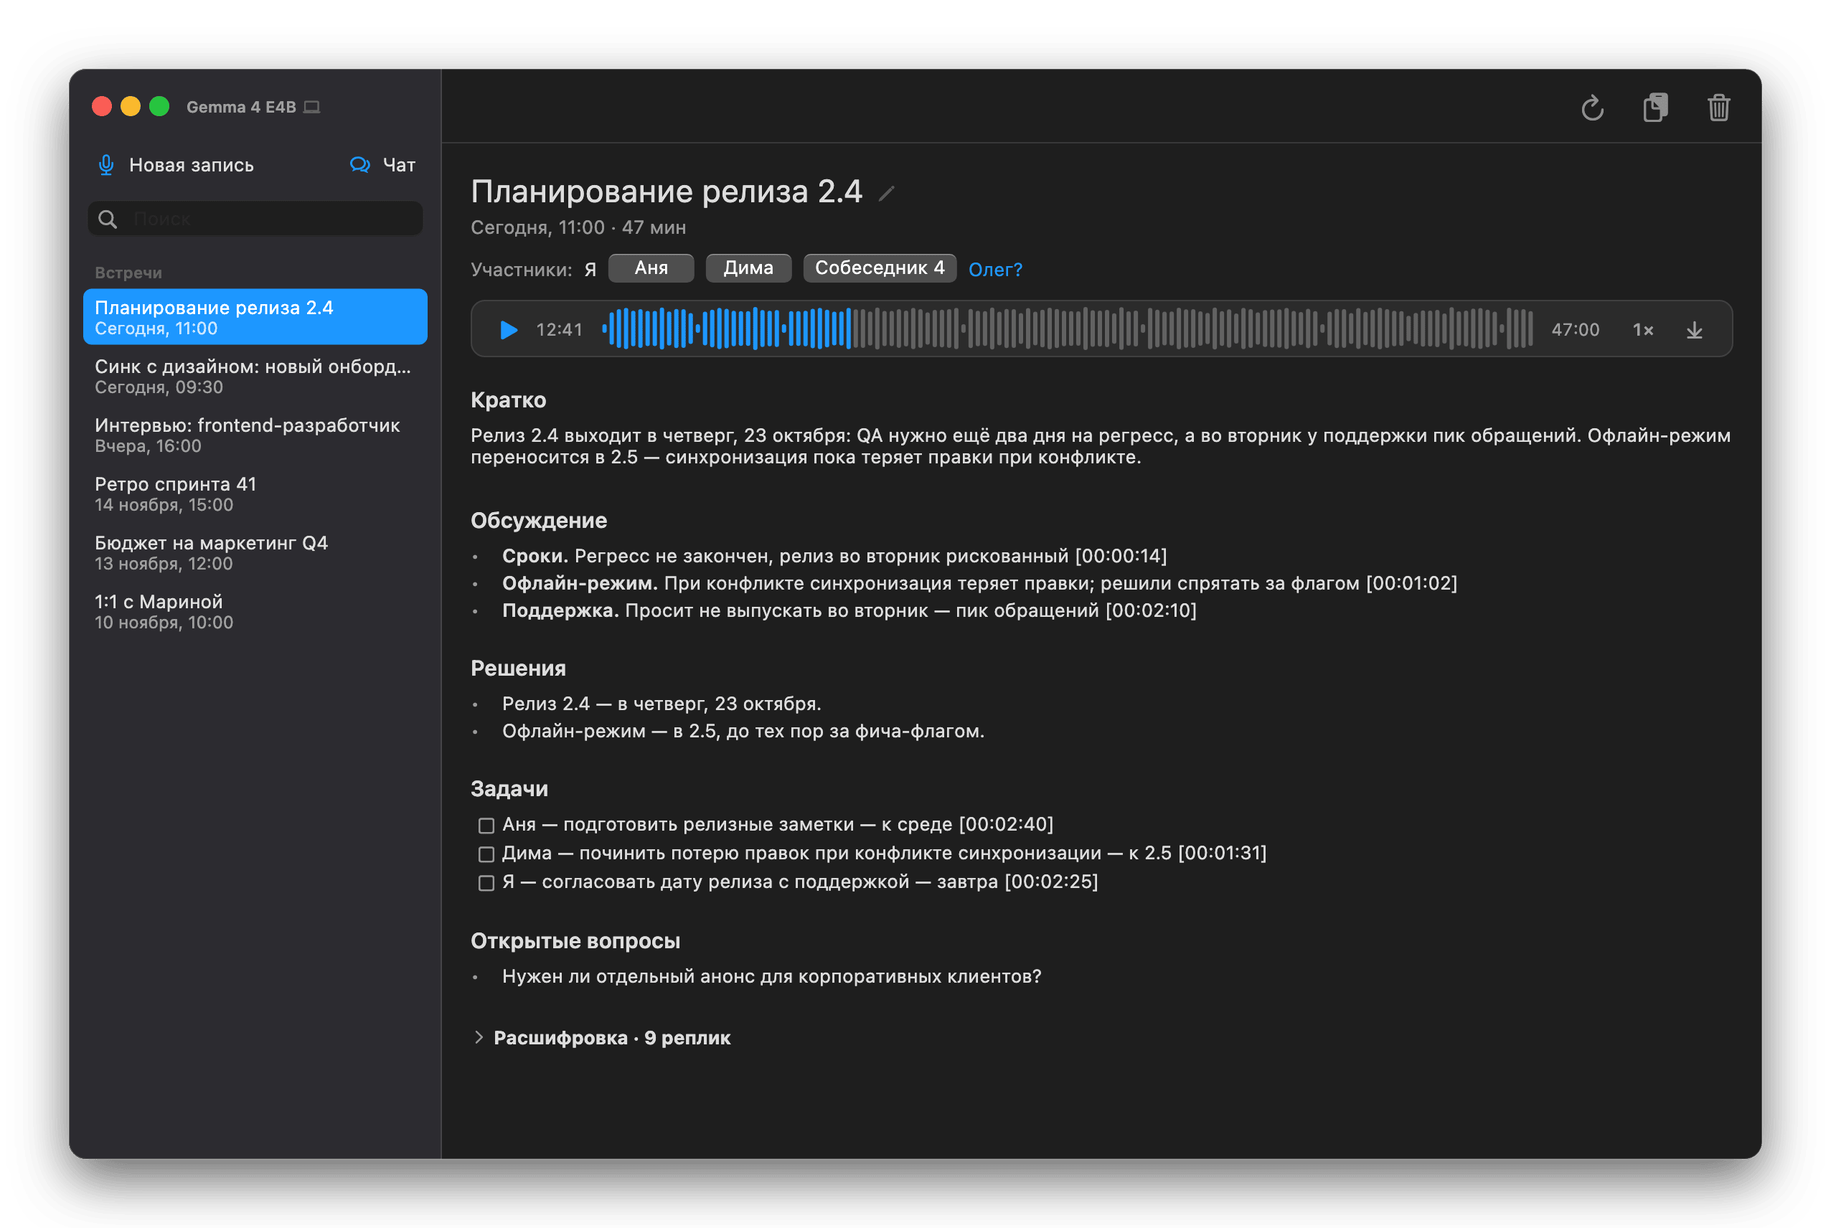
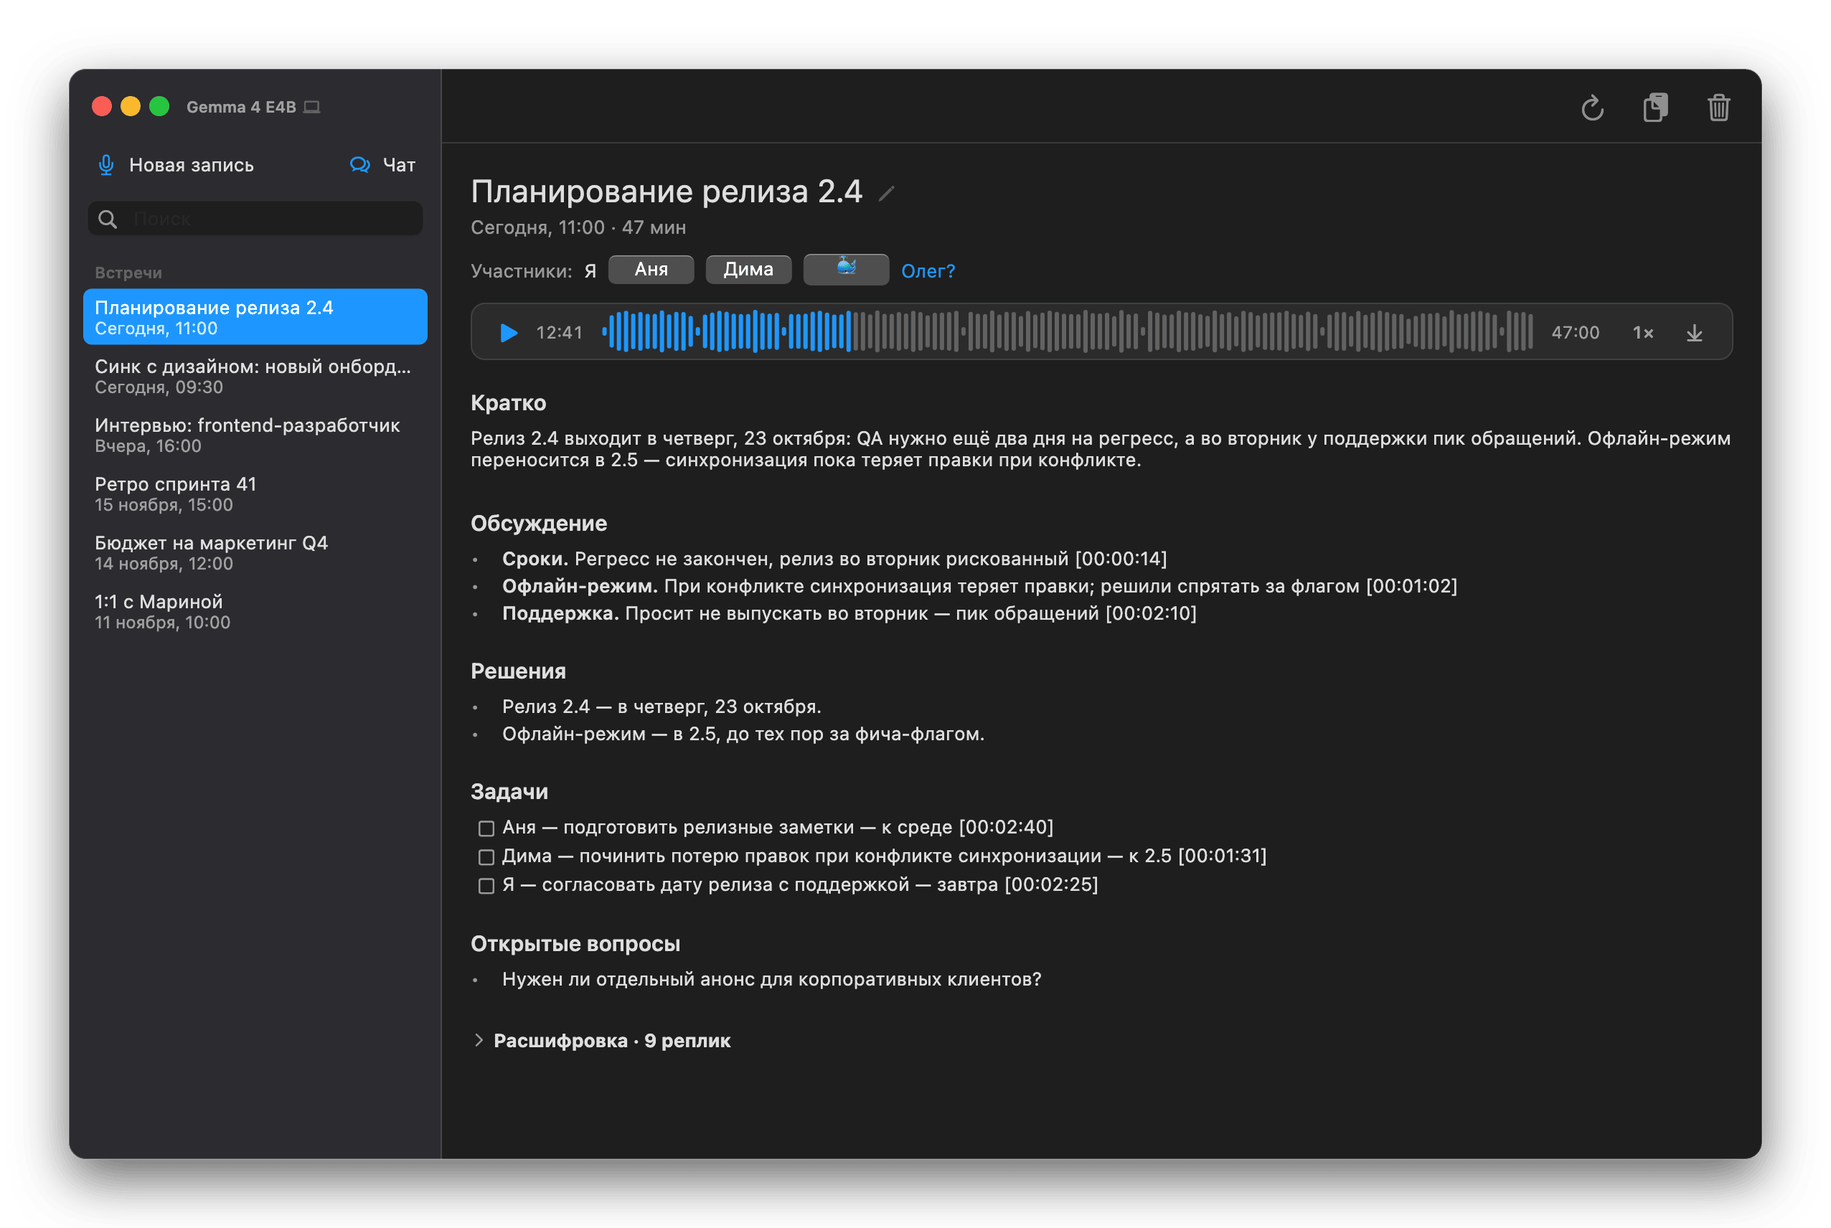
Собеседники без имени — эмодзи вместо «Собеседник N»
Каждый голос в интерфейсе — свой зверь (🦊, 🐻, 🦉…), потом существа и
профессии; 178 эмодзи, дальше по кругу с номером. Только для показа:
расшифровка, участники, заметки, чат, копирование и экспорт. В файлах
встреч метки прежние — по ним пишет Gemma и работает переименование.
Шрифт эмодзи про запас в теме — чтобы эмодзи были и на скриншотах README.

diff --git a/lib/speaker_emoji.dart b/lib/speaker_emoji.dart
@@ -1,0 +1,44 @@
+/// Собеседники, различённые по голосу, в интерфейсе — эмодзи вместо «Собеседник N»:
+/// 🦊 и 🦉 различаются в расшифровке с одного взгляда, «Собеседник 3» и «Собеседник 5» — нет.
+/// В файлах встречи (`transcript.md`, `summary.md`) метки остаются текстом: по ним пишет
+/// Gemma, их склоняет и заменяет переименование, по ним ищет чат. Собеседник с именем
+/// показывается именем, без эмодзи.
+library;
+
+/// Сначала звери, непохожие друг на друга (встречи редко больше чем на десяток голосов),
+/// потом остальные звери, существа, люди по профессиям (без пола и цвета кожи). Феникс —
+/// последним: он появился в macOS 14.4, а на 14.2–14.3 рисуется птицей и огнём отдельно.
+const speakerEmoji = [
+  '🦊', '🐻', '🦉', '🐳', '🐸', '🦁', '🐙', '🦔', '🐧', '🦒', '🐢', '🦋', '🐝', '🦩', '🐼', '🐨', '🐯', '🦜', '🐵',
+  '🐒', '🙈', '🙉', '🙊', '🦍', '🦧', '🐶', '🐕', '🦮', '🐕🦺', '🐩', '🐺', '🦝', '🐱', '🐈', '🐈⬛', '🐅', '🐆',
+  '🐴', '🫎', '🫏', '🐎', '🦄', '🦓', '🦌', '🦬', '🐮', '🐂', '🐃', '🐄', '🐷', '🐖', '🐗', '🐏', '🐑', '🐐', '🐪',
+  '🐫', '🦙', '🐘', '🦣', '🦏', '🦛', '🐭', '🐁', '🐀', '🐹', '🐰', '🐇', '🐿', '🦫', '🦇', '🐻❄', '🦥', '🦦',
+  '🦨', '🦘', '🦡', '😺', '😸', '😹', '😻', '😼', '😽', '🙀', '😿', '😾', '🦃', '🐔', '🐓', '🐣', '🐤', '🐥', '🐦',
+  '🕊', '🦅', '🦆', '🦢', '🦤', '🦚', '🐦⬛', '🪿', '🐊', '🦎', '🐍', '🐲', '🐉', '🦕', '🦖', '🐋', '🐬', '🦭', '🐟',
+  '🐠', '🐡', '🦈', '🪼', '🦀', '🦞', '🦐', '🦑', '🐌', '🐛', '🐜', '🪲', '🐞', '🦗', '🪳', '🕷', '🦂', '🦟', '🪰',
+  '🪱', '🧙', '🧚', '🧛', '🧜', '🧝', '🧞', '🧟', '🧌', '👼', '🎅', '🤶', '🧑🎄', '🦸', '🦹', '🥷', '🤖', '👽', '👾',
+  '👻', '💀', '👹', '👺', '🤡', '🦠', '🧑⚕', '🧑🎓', '🧑🏫', '🧑⚖', '🧑🌾', '🧑🍳', '🧑🔧', '🧑🏭', '🧑💼',
+  '🧑🔬', '🧑💻', '🧑🎤', '🧑🎨', '🧑✈', '🧑🚀', '🧑🚒', '👮', '🕵', '💂', '👷', '🫅', '🐦🔥',
+];
+
+/// Эмодзи голоса по номеру с нуля; если эмодзи кончились — по кругу с номером круга.
+String speakerEmojiFor(int index) {
+  final emoji = speakerEmoji[index % speakerEmoji.length];
+  final round = index ~/ speakerEmoji.length;
+  return round == 0 ? emoji : '$emoji${round + 1}';
+}
+
+final _label = RegExp(r'^Собеседник (\d+)$');
+
+/// Подпись собеседника для показа: «Собеседник 2» → 🐻, остальное (имя, «Я», «Собеседники») — как есть.
+String displaySpeaker(String label) => switch (_label.firstMatch(label.trim())) {
+      final m? => speakerEmojiFor(int.parse(m[1]!) - 1),
+      _ => label,
+    };
+
+/// Метки «Собеседник N» в тексте (и склонённые Gemma: «Собеседнику 2», «с Собеседником 3»)
+/// → эмодзи. «Собеседники» без номера не трогает.
+String withSpeakerEmoji(String text) => text.replaceAllMapped(
+      RegExp(r'(?<![\p{L}\p{N}])Собеседник(?:а|у|ом|е)?\s+(\d+)(?!\d)', unicode: true),
+      (m) => speakerEmojiFor(int.parse(m[1]!) - 1),
+    );

diff --git a/lib/meeting_view.dart b/lib/meeting_view.dart
@@ -5,6 +5,7 @@ import 'package:macos_ui/macos_ui.dart';
 
 import 'audio_player.dart';
 import 'meetings.dart';
+import 'speaker_emoji.dart';
 import 'speaker_hints.dart';
 import 'ui.dart';
 
@@ -376,7 +377,7 @@ class _MeetingViewState extends State<MeetingView> {
   }
 }
 
-/// «Участники: Я, [Собеседник 1] [Анна]» — щелчок по собеседнику даёт ему имя.
+/// «Участники: Я, [🦊] [Анна]» — щелчок по собеседнику даёт ему имя.
 class _Participants extends StatelessWidget {
   const _Participants({
     required this.speakers,
@@ -412,7 +413,7 @@ class _Participants extends StatelessWidget {
               controlSize: ControlSize.regular,
               secondary: true,
               onPressed: () => onPressed(speaker),
-              child: Text(speaker),
+              child: Text(displaySpeaker(speaker)),
             ),
           ),
           if (hints[speaker] case final hint?)
@@ -444,7 +445,7 @@ class _HintButtonState extends State<_HintButton> {
     final color = MacosTheme.of(context).primaryColor;
     return MacosTooltip(
       message: 'Похоже, это ${hint.name}: после обращения по имени отвечал этот голос '
-          '(${hint.votes} $times). Например:\n${hint.evidence}\n\nЩёлкните, чтобы назвать.',
+          '(${hint.votes} $times). Например:\n${withSpeakerEmoji(hint.evidence)}\n\nЩёлкните, чтобы назвать.',
       child: MouseRegion(
         cursor: SystemMouseCursors.click,
         onEnter: (_) => setState(() => _hovered = true),
@@ -514,7 +515,7 @@ class _SpeakerNameDialogState extends State<_SpeakerNameDialog> {
       },
       child: MacosAlertDialog(
         appIcon: const MacosIcon(CupertinoIcons.person_crop_circle, size: 48),
-        title: Text('Как зовут «${widget.speaker}»?', textAlign: TextAlign.center),
+        title: Text('Как зовут «${displaySpeaker(widget.speaker)}»?', textAlign: TextAlign.center),
         message: Column(
           mainAxisSize: MainAxisSize.min,
           children: [
@@ -642,6 +643,8 @@ class TranscriptLines extends StatelessWidget {
                     ),
                     Expanded(
                       child: Text.rich(
+                        // Высота строки — по тексту: эмодзи собеседника выше букв и раздвигал бы строки.
+                        strutStyle: StrutStyle.fromTextStyle(typography.body, forceStrutHeight: true),
                         TextSpan(
                           style: index < lines.length
                               ? typography.body
@@ -651,7 +654,7 @@ class TranscriptLines extends StatelessWidget {
                                 ),
                           children: [
                             TextSpan(
-                              text: '${m[2]}  ',
+                              text: '${displaySpeaker(m[2]!)}  ',
                               style: const TextStyle(
                                 fontWeight: FontWeight.w600,
                               ),
@@ -685,7 +688,7 @@ class SummaryMarkdown extends StatelessWidget {
   Widget build(BuildContext context) {
     final typography = MacosTheme.of(context).typography;
     final blocks = <Widget>[];
-    for (final raw in markdown.split('\n')) {
+    for (final raw in withSpeakerEmoji(markdown).split('\n')) {
       final line = raw.trimRight();
       if (line.trim().isEmpty) continue;
       final indent = (line.length - line.trimLeft().length) ~/ 2;

diff --git a/test/readme_screenshots_test.dart b/test/readme_screenshots_test.dart
@@ -30,6 +30,7 @@ import 'package:znaika/model_manifest.dart';
 import 'package:znaika/recorder_page.dart';
 import 'package:znaika/setup_page.dart';
 import 'package:znaika/transcriber.dart';
+import 'package:znaika/ui.dart';
 
 final _enabled = Platform.environment['ZNAIKA_SCREENSHOTS'] == '1';
 const _window = Size(1180, 760);
@@ -175,6 +176,9 @@ Future<void> _loadFonts() async {
   for (final family in ['.AppleSystemUIFont', 'Roboto']) {
     await (FontLoader(family)..addFont(sf.then(ByteData.sublistView))).load();
   }
+  // Эмодзи собеседников (🦊, 🐻…): без системного шрифта эмодзи в тестах — прямоугольники.
+  final emoji = File('/System/Library/Fonts/Apple Color Emoji.ttc').readAsBytes();
+  await (FontLoader('Apple Color Emoji')..addFont(emoji.then(ByteData.sublistView))).load();
   final config = jsonDecode(await File('.dart_tool/package_config.json').readAsString()) as Map;
   final cupertino = (config['packages'] as List).cast<Map>().firstWhere((p) => p['name'] == 'cupertino_icons');
   final icons = File('${Uri.parse(cupertino['rootUri'] as String).toFilePath()}/assets/CupertinoIcons.ttf');
@@ -199,8 +203,8 @@ Future<void> _pump(WidgetTester tester, Widget home, ThemeMode mode, {Size size 
   addTearDown(tester.platformDispatcher.clearPlatformBrightnessTestValue);
   await tester.pumpWidget(MacosApp(
     debugShowCheckedModeBanner: false,
-    theme: MacosThemeData.light(),
-    darkTheme: MacosThemeData.dark(),
+    theme: withEmojiFallback(MacosThemeData.light()),
+    darkTheme: withEmojiFallback(MacosThemeData.dark()),
     themeMode: mode,
     home: _Frame(size: size, child: home),
   ));

diff --git a/test/speaker_emoji_test.dart b/test/speaker_emoji_test.dart
@@ -1,0 +1,31 @@
+import 'package:flutter_test/flutter_test.dart';
+import 'package:znaika/speaker_emoji.dart';
+
+void main() {
+  test('178 разных эмодзи: звери, потом существа и профессии, феникс последним', () {
+    expect(speakerEmoji.length, 178);
+    expect(speakerEmoji.toSet().length, 178);
+    expect(speakerEmoji.take(3), ['🦊', '🐻', '🦉']);
+    expect(speakerEmoji.last, '🐦🔥');
+  });
+
+  test('метка голоса → эмодзи, имя и «Я» — как есть', () {
+    expect(displaySpeaker('Собеседник 1'), '🦊');
+    expect(displaySpeaker('Собеседник 2'), '🐻');
+    expect(displaySpeaker('Костя'), 'Костя');
+    expect(displaySpeaker('Я'), 'Я');
+    expect(displaySpeaker('Собеседники'), 'Собеседники');
+  });
+
+  test('эмодзи кончились — по кругу с номером круга', () {
+    expect(speakerEmojiFor(178), '🦊2');
+    expect(speakerEmojiFor(179), '🐻2');
+  });
+
+  test('в тексте заметок — и склонённые метки, но не «Собеседники» и не «Собеседник 12» вместо 1', () {
+    expect(
+      withSpeakerEmoji('Собеседник 1 предложил, Собеседнику 2 поручили, с Собеседником 12 договорились. Собеседники согласны.'),
+      '🦊 предложил, 🐻 поручили, с 🦋 договорились. Собеседники согласны.',
+    );
+  });
+}

diff --git a/lib/home_page.dart b/lib/home_page.dart
@@ -16,6 +16,7 @@ import 'model_manager.dart';
 import 'model_manifest.dart';
 import 'platform_files.dart';
 import 'recorder_page.dart';
+import 'speaker_emoji.dart';
 import 'summarizer.dart';
 import 'summary_models.dart';
 import 'transcriber.dart';
@@ -329,11 +330,12 @@ class _HomePageState extends State<HomePage> {
     await _reload();
   }
 
-  Future<String> _markdown(Meeting meeting) async => meetingMarkdown(
+  /// Встреча в Markdown для экспорта — с эмодзи собеседников, как на экране.
+  Future<String> _markdown(Meeting meeting) async => withSpeakerEmoji(meetingMarkdown(
     meeting,
     summary: await meeting.readSummary(),
     transcript: await meeting.readTranscript(),
-  );
+  ));
 
   Future<void> _export(Meeting meeting) async {
     try {
@@ -362,7 +364,7 @@ class _HomePageState extends State<HomePage> {
   Future<void> _copyNotes(Meeting meeting) async {
     final summary = await meeting.readSummary();
     final text = (summary != null && summary.isNotEmpty)
-        ? '# ${meeting.title}\n\n$summary'
+        ? '# ${meeting.title}\n\n${withSpeakerEmoji(summary)}'
         : await _markdown(meeting);
     await Clipboard.setData(ClipboardData(text: text));
   }

diff --git a/lib/ui.dart b/lib/ui.dart
@@ -398,3 +398,27 @@ class PageContent extends StatelessWidget {
     );
   }
 }
+
+/// Тема со шрифтом эмодзи про запас: эмодзи собеседников (🦊, 🐻…) — из Apple Color Emoji,
+/// если в основном шрифте их нет. macOS подставляет его и сама, но явный запасной шрифт
+/// нужен и снимкам для README (там шрифты загружаются вручную, без системной подстановки).
+/// DefaultTextStyle не годится: стили macos_ui его не наследуют.
+MacosThemeData withEmojiFallback(MacosThemeData theme) {
+  final t = theme.typography;
+  TextStyle e(TextStyle style) => style.copyWith(fontFamilyFallback: const ['Apple Color Emoji']);
+  return theme.copyWith(
+    typography: MacosTypography.raw(
+      largeTitle: e(t.largeTitle),
+      title1: e(t.title1),
+      title2: e(t.title2),
+      title3: e(t.title3),
+      headline: e(t.headline),
+      subheadline: e(t.subheadline),
+      body: e(t.body),
+      callout: e(t.callout),
+      footnote: e(t.footnote),
+      caption1: e(t.caption1),
+      caption2: e(t.caption2),
+    ),
+  );
+}

diff --git a/lib/main.dart b/lib/main.dart
@@ -15,6 +15,7 @@ import 'meetings.dart';
 import 'model_manager.dart';
 import 'model_manifest.dart';
 import 'setup_page.dart';
+import 'ui.dart';
 
 Future<void> main() async {
   WidgetsFlutterBinding.ensureInitialized();
@@ -133,8 +134,8 @@ class ZnaikaApp extends StatelessWidget {
     return MacosApp(
       title: 'Znaika',
       // Светлая или тёмная — как в системе; акцентный цвет macos_ui берёт системный.
-      theme: MacosThemeData.light(),
-      darkTheme: MacosThemeData.dark(),
+      theme: withEmojiFallback(MacosThemeData.light()),
+      darkTheme: withEmojiFallback(MacosThemeData.dark()),
       themeMode: ThemeMode.system,
       // Русские подписи стандартных элементов (контекстное меню «Скопировать» и т. п.).
       locale: const Locale('ru'),

diff --git a/test/ui_test.dart b/test/ui_test.dart
@@ -528,7 +528,9 @@ void main() {
       mode: ThemeMode.dark,
       size: const Size(760, 520),
     );
-    expect(find.textContaining('Собеседник 2', findRichText: true), findsOneWidget);
+    // Голоса — эмодзи вместо «Собеседник N».
+    expect(find.textContaining('🐻  Согласна.', findRichText: true), findsOneWidget);
+    expect(find.textContaining('Собеседник', findRichText: true), findsNothing);
     expect(find.textContaining('Тогда я подготовлю…', findRichText: true), findsOneWidget);
     // Время встречи длиннее часа — в одну строку, как и «00:05».
     expect(tester.getSize(find.text('1:05:23')).height, tester.getSize(find.text('00:05')).height);

diff --git a/README.md b/README.md
@@ -30,7 +30,7 @@
   звук (собеседников) и ваш микрофон раздельно, ничего не подключая к самому созвону.
 - **Расшифровка на лету.** Реплика появляется через доли секунды после того, как её
   договорили; пунктуация расставляется сама.
-- **Собеседники по голосу.** «Собеседник 1», «Собеседник 2»… — имя даётся в один щелчок,
+- **Собеседники по голосу.** Каждый голос — свой зверь: 🦊, 🐻, 🦉… — имя даётся в один щелчок,
   а подсказки («Олег?») берутся из обращений в разговоре.
 - **Заметки после встречи.** Кратко, обсуждение, решения, задачи с ответственными и сроками,
   открытые вопросы — со ссылками на моменты записи. Заметки можно пересоздать, например
